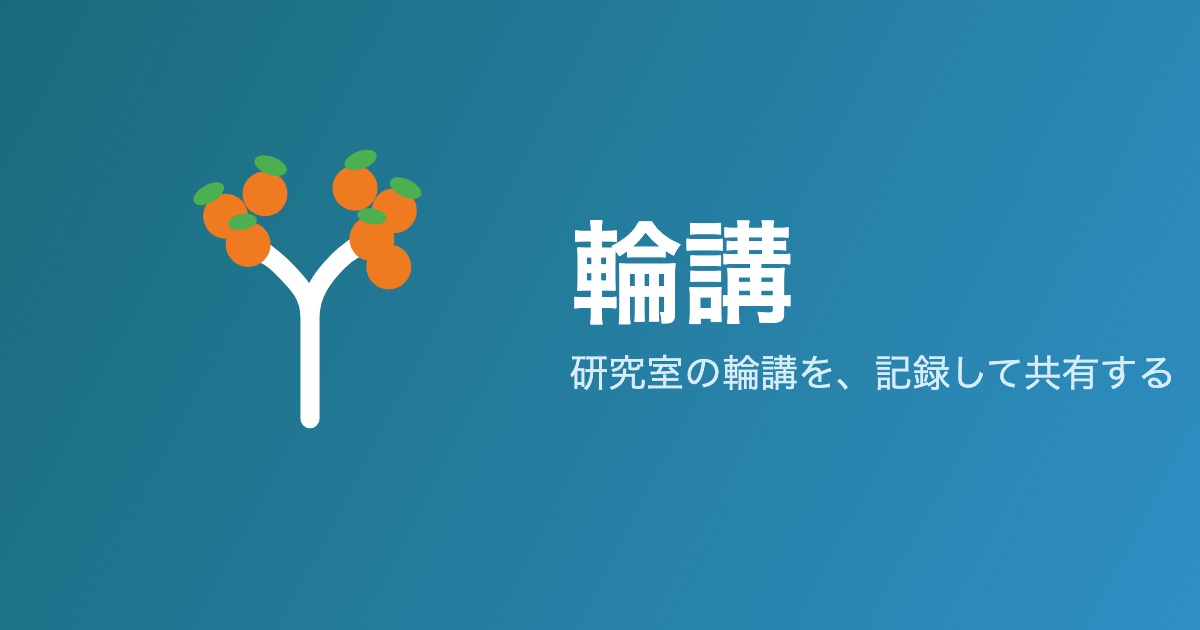
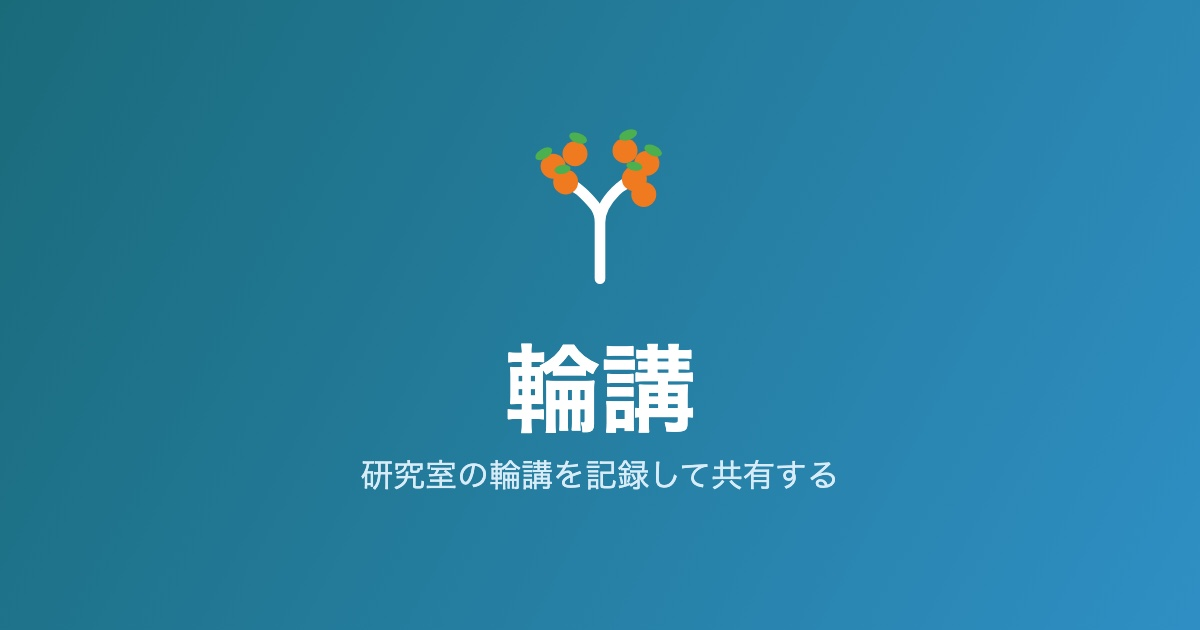
Keep the link preview intact when it gets cropped square (#123)
On iPhone the shared link lost its right-hand side: the tagline ran off
the card. Messaging apps crop the 1.91:1 image to a square to show it
small, they pick the crop themselves, and nothing in the request tells
us the recipient's device — one image has to survive every crop.

So the artwork stops spanning the full width. Tree, name and tagline
now stack inside the centre 630x630, which is what a centre crop keeps.
Verified by cropping the render to a square before shipping it.

Also drops the throwaway account addresses from CLAUDE.md. A list of
them buys nothing the Supabase dashboard doesn't already hold, and it
walks out of the repo the moment it goes public. The addresses stay in
the history; that's fine for example.com placeholders and not worth a
rewrite.

The build command moves to docs/og-image.md — XML comments can't hold a
double hyphen, so pasting the Chrome flags into the SVG broke the file.

diff --git a/CLAUDE.md b/CLAUDE.md
@@ -144,8 +144,9 @@ SeminarView / CreateUnitView / UnitView / AddLogView / SearchView / TrashView
 - **孤児ファイル2件の削除。** Supabaseダッシュボード → Storage → `log-images` の
   `5fb02b38-…/` と `cf5dc4ce-…/`。画像添付を直す前の検証で出たもので、
   参加情報が消えているため権限が無く消せない
-- **検証用アカウントの削除。** `perm-check-2@example.com` と、必要なら
-  `test01` / `test02`（管理者権限が要る）
+- **検証用アカウントの削除。** Supabaseの管理画面 → Authentication で、
+  権限の確認に使った使い捨てのアカウントと、必要なら `test01` / `test02` を消す
+  （管理者権限が要る）
 - `線形代数` に検証で作った記録が残っている。実際に使い始める前に整理するとよい
 
 ### 動作を確認済みのもの
@@ -270,11 +271,12 @@ URLを直接開いたときにVercelがファイルを探して404を返し、**
 `devtest` / `devtest2` / `devtest3` は削除済み（本人がSupabaseの管理画面から実施）。
 本人のアカウント `ひろゆき` のみ残っている。
 
-以下は検証のたびに作られる使い捨てアカウント。**残っていたら本人が管理画面から削除する**
-（削除には管理者権限が必要なので私にはできない）。
+検証のたびに使い捨てのアカウントを作ることがある。**残っていたら本人が管理画面から
+削除する**（削除には管理者権限が必要なので私にはできない）。
 
-- `pwtest@example.com` — パスワード再設定機能の検証用。既に削除確認済み
-- `verify-delete-me@example.com` / `perm-check-2@example.com` — 回のページ範囲・削除機能の検証用（作成者／非作成者の権限確認に使った）
+**この文書にアドレスを書き残さないこと。** 一覧を置いておくと、リポジトリを
+公開したときにそのまま出ていく。実在するアカウントはSupabaseの管理画面が
+正になるので、ここに写しを持つ意味も薄い。
 
 2026-08-13の作業（#38 / #41 / #42）では新しいアカウントを作っていない。本人の `ひろゆき` で
 検証し、作った教材と回はすべて完全削除済み。`線形代数` の `shelf_status` は「学習中」に戻してある。

diff --git a/docs/og-image.md b/docs/og-image.md
@@ -1,0 +1,36 @@
+# OG画像の作り直し方
+
+リンクを貼ったときに出る画像（`public/og-image.jpg`）の元は
+[og-image.svg](og-image.svg)。SVGのままだとクローラが描画しないので、
+ラスタにして `public/` へ置く。
+
+## 手順
+
+```bash
+"/Applications/Google Chrome.app/Contents/MacOS/Google Chrome" \
+  --headless --disable-gpu --hide-scrollbars \
+  --screenshot=/tmp/og.png --window-size=1200,630 \
+  "file://$PWD/docs/og-image.svg"
+
+sips -s format jpeg -s formatOptions 88 /tmp/og.png --out public/og-image.jpg
+```
+
+## 決めごと
+
+**中央の正方形からはみ出さないこと。**
+
+受け取る側のアプリ（LINE・Slackなど）は、この画像を**正方形に切って**小さく
+出すことがある。どこを切るかは向こうが決めるので、こちらからは指定できないし、
+**相手の機種を知る方法も無い**。1枚の画像で全部に対応するには、
+大事なものを中央の正方形に収めておくしかない。
+
+そのため中身は横 285〜915（＝高さと同じ630の正方形）に収めてある。
+横に広げると、iPhoneのトーク画面で右側が落ちる。実際に落とした。
+
+**変換に `qlmanage` は使えない。** 正方形に潰されて、右が切れる。
+ヘッドレスのChromeなら指定した比率のまま描ける。
+
+**JPEGにする。** 背景がグラデーションなのでPNGだと大きい（328KB→64KB）。
+
+**SVGのコメントに `--` を書かないこと。** XMLのコメントには入れられない決まりで、
+書くとファイルごと壊れる。コマンドをこのファイルに置いているのはそのため。
